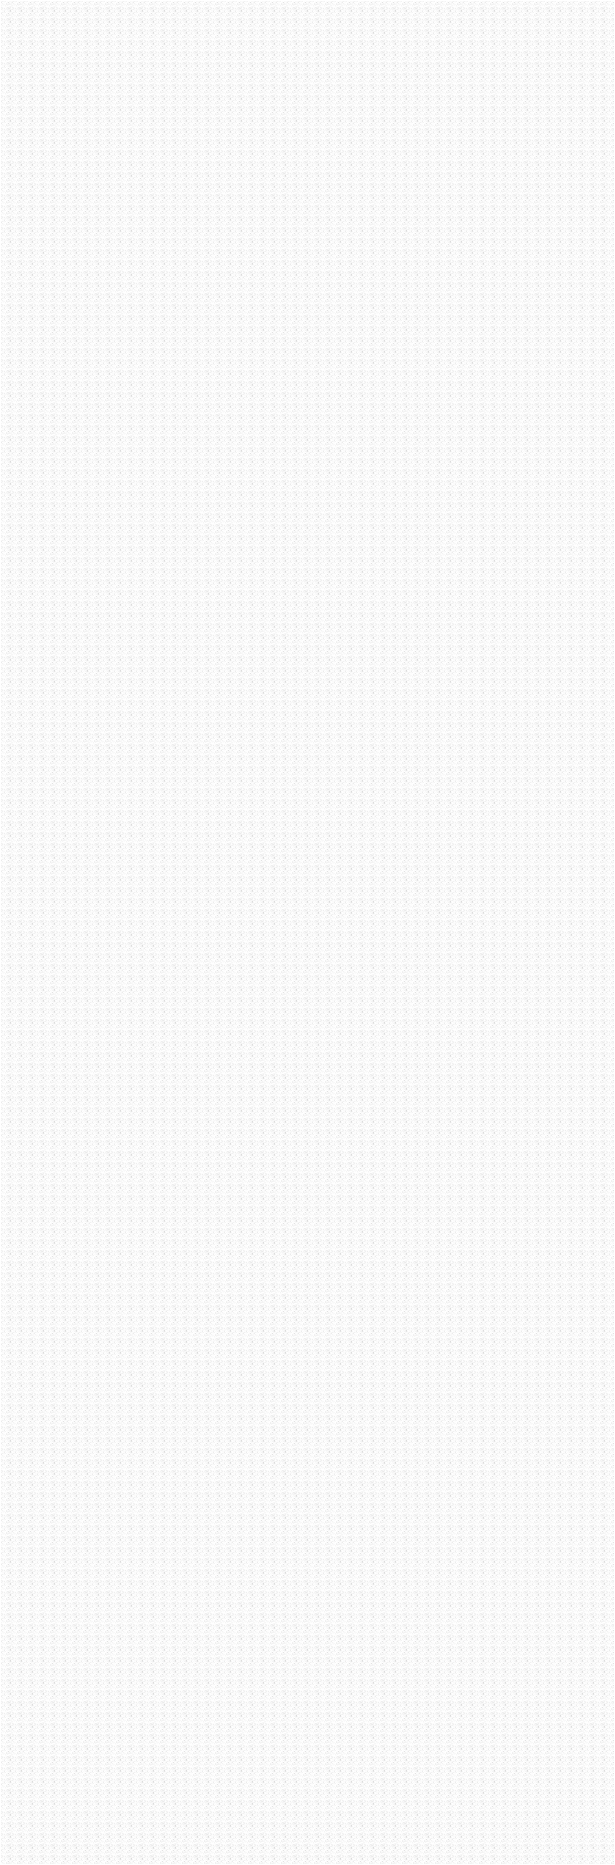
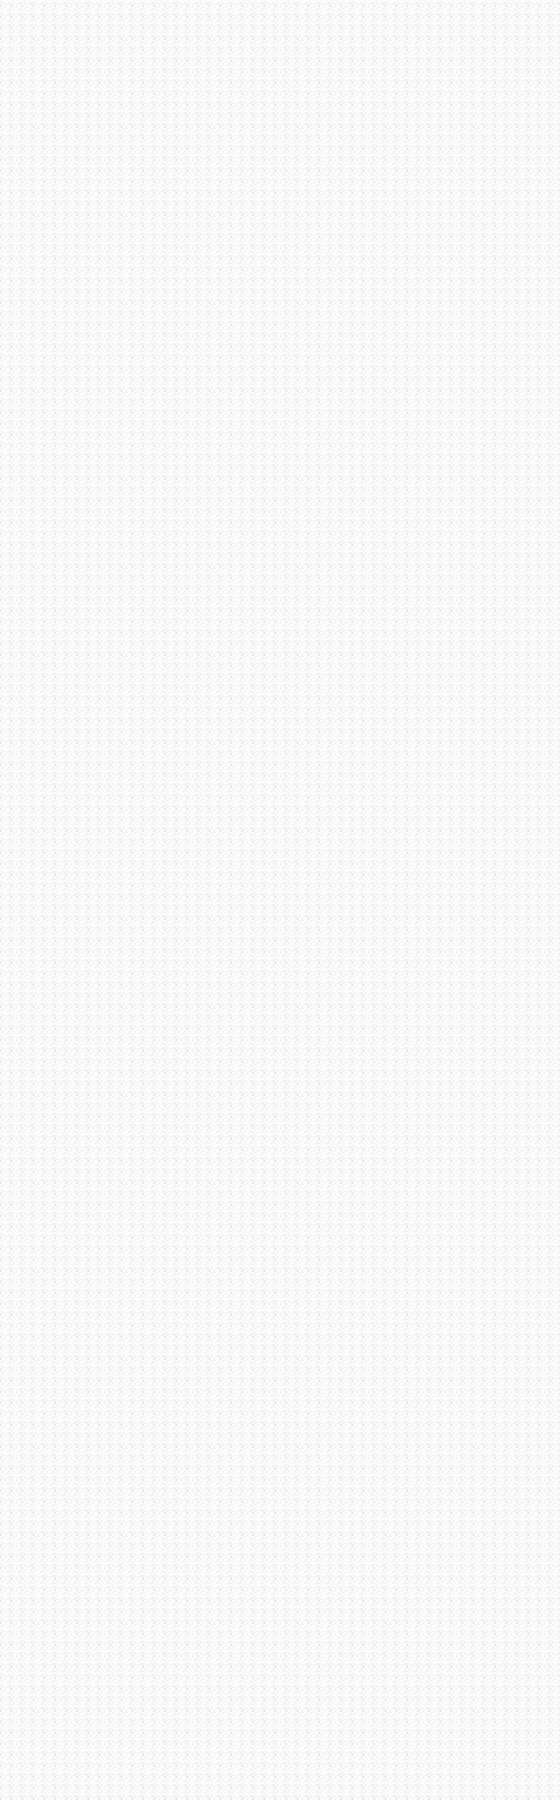
update sectorOne

diff --git a/src/views/SectorOne.vue b/src/views/SectorOne.vue
@@ -1,0 +1,115 @@
+<template>
+  <div class="relative flex flex-row h-[700px]">
+    <!-- area background -->
+    <div
+      class="absolute w-[450px] h-[450px] opacity-50 rounded-1/2 bg-orange-600 blur-[210px] -z-10"
+    ></div>
+    <!-- left -->
+    <div class="w-full m-8">
+      <div class="flex flex-row items-center justify-between">
+        <div>
+          <img src="@/assets/image/logo.png" alt="" class="h-12 w-40" />
+        </div>
+        <div>
+          <ul class="flex flex-row items-center gap-2 text-xl gap-x-8">
+            <li class="hover:text-orange-500"><a href="">Home</a></li>
+            <li class="hover:text-orange-500"><a href="">Programs</a></li>
+            <li class="hover:text-orange-500"><a href="">Why us</a></li>
+            <li class="hover:text-orange-500"><a href="">Plans</a></li>
+            <li class="hover:text-orange-500"><a href="">Testimonials</a></li>
+          </ul>
+        </div>
+      </div>
+      <div class="flex flex-col items-start mt-20">
+        <div class="relative mb-8 p-3">
+          <div
+            class="absolute top-0 left-0 h-full w-full p-2 rounded-full bg-gray-800 z-0"
+          >
+            <div
+              class="w-[125px] h-full bg-orange-500 rounded-full z-10 hover:transition hover:translate-x-full"
+            ></div>
+          </div>
+          <span class="relative text-2xl z-20"
+            >THE BEST FITNESS CLUB IN THE TOWN</span
+          >
+        </div>
+        <div class="flex flex-col items-start mb-4">
+          <h1
+            class="text-7xl font-bold max-w-[500px] leading-tight mb-4 text-left"
+          >
+            SHAPE YOUR IDEAL BODY
+          </h1>
+          <p class="text-lg font-semibold">
+            In here we will help you to shape and build your ideal body and live
+            up your life to fullest
+          </p>
+        </div>
+        <div class="flex flex-row items-center gap-x-8 mb-4">
+          <div class="flex flex-col items-start justify-center">
+            <span class="text-3xl font-medium">+ 140</span>
+            <span class="text-gray-300">EXPERT COACHES</span>
+          </div>
+          <div class="flex flex-col items-start justify-center">
+            <span class="text-3xl font-medium">+ 978</span>
+            <span class="text-gray-300">MEMBERS JOINED</span>
+          </div>
+          <div class="flex flex-col items-start justify-center">
+            <span class="text-3xl font-medium">+ 50</span>
+            <span class="text-gray-300">FITNESS PROGRAMS</span>
+          </div>
+          <div
+            class="flex flex-row items-center bg-gray-600 rounded-lg p-2 gap-x-3"
+          >
+            <img src="@/assets/image/calories.png" alt="" />
+            <div class="flex flex-col items-start">
+              <span class="text-gray-400 mb-5">Calories burned</span>
+              <span class="text-white text-2xl">220 kcal</span>
+            </div>
+          </div>
+        </div>
+        <div>
+          <button
+            class="px-5 py-2 bg-orange-500 border-4 border-orange-500 text-white font-semibold"
+          >
+            Get Started
+          </button>
+          <button
+            class="ml-5 px-5 py-2 bg-transparent border-4 border-orange-500 text-white font-semibold"
+          >
+            Learn More
+          </button>
+        </div>
+      </div>
+    </div>
+
+    <!-- right -->
+    <div
+      class="relative w-[400px] h-full bg-gradient-to-b from-orange-600 via-orange-500 to-orange-400"
+    >
+      <button class="bg-white font-bold text-black px-5 py-2 mt-8">
+        Join Now
+      </button>
+      <div class="absolute -left-[60%] bottom-0">
+        <img
+          src="@/assets/image/hero_image.png"
+          alt=""
+          class="h-[500px] w-[370px]"
+        />
+      </div>
+      <div class="absolute right-1/4 top-[100px] bg-gray-600 rounded-lg p-3">
+        <img src="@/assets/image/heart.png" alt="" class="h-[30px] w-[30px]" />
+        <div class="flex flex-col items-start gap-y-3 mt-3">
+          <span class="text-gray-500 font-bold">Heart Rate</span>
+          <span class="text-2xl">116 bpm</span>
+        </div>
+      </div>
+    </div>
+  </div>
+</template>
+<script lang="ts">
+export default {
+  setup() {
+    return {};
+  },
+};
+</script>

diff --git a/src/App.vue b/src/App.vue
@@ -1,10 +1,11 @@
 <template>
-  <nav>
+  <!-- <nav>
     <div class="text-4xl text-blue-700 font-bold">Hell oooo</div>
     <router-link to="/">Home</router-link> |
     <router-link to="/about">About</router-link>
   </nav>
-  <router-view />
+  <router-view /> -->
+  <sector-one />
 </template>
 
 <style>
@@ -13,19 +14,15 @@
   -webkit-font-smoothing: antialiased;
   -moz-osx-font-smoothing: grayscale;
   text-align: center;
-  color: #2c3e50;
-}
-
-nav {
-  padding: 30px;
-}
-
-nav a {
-  font-weight: bold;
-  color: #2c3e50;
-}
-
-nav a.router-link-exact-active {
-  color: #42b983;
+  color: #ffffff;
 }
 </style>
+<script lang="ts">
+import SectorOne from "./views/SectorOne.vue";
+export default {
+  components: { SectorOne },
+  setup() {
+    return {};
+  },
+};
+</script>

diff --git a/src/css/tailwind.css b/src/css/tailwind.css
@@ -1,3 +1,9 @@
 @tailwind base;
 @tailwind utilities;
 @tailwind components;
+
+@layer base{
+    body{
+        @apply bg-[url('/src/assets/image/noise.png')] bg-[#4a4c50] bg-contain bg-repeat
+    }
+}

diff --git a/tailwind.config.js b/tailwind.config.js
@@ -2,7 +2,8 @@
 module.exports = {
   content: ["./public/index.html","./src/**/*.{html,ts,vue}"],
   theme: {
-    extend: {},
+    extend: {    
+    },
   },
   plugins: [],
 }
